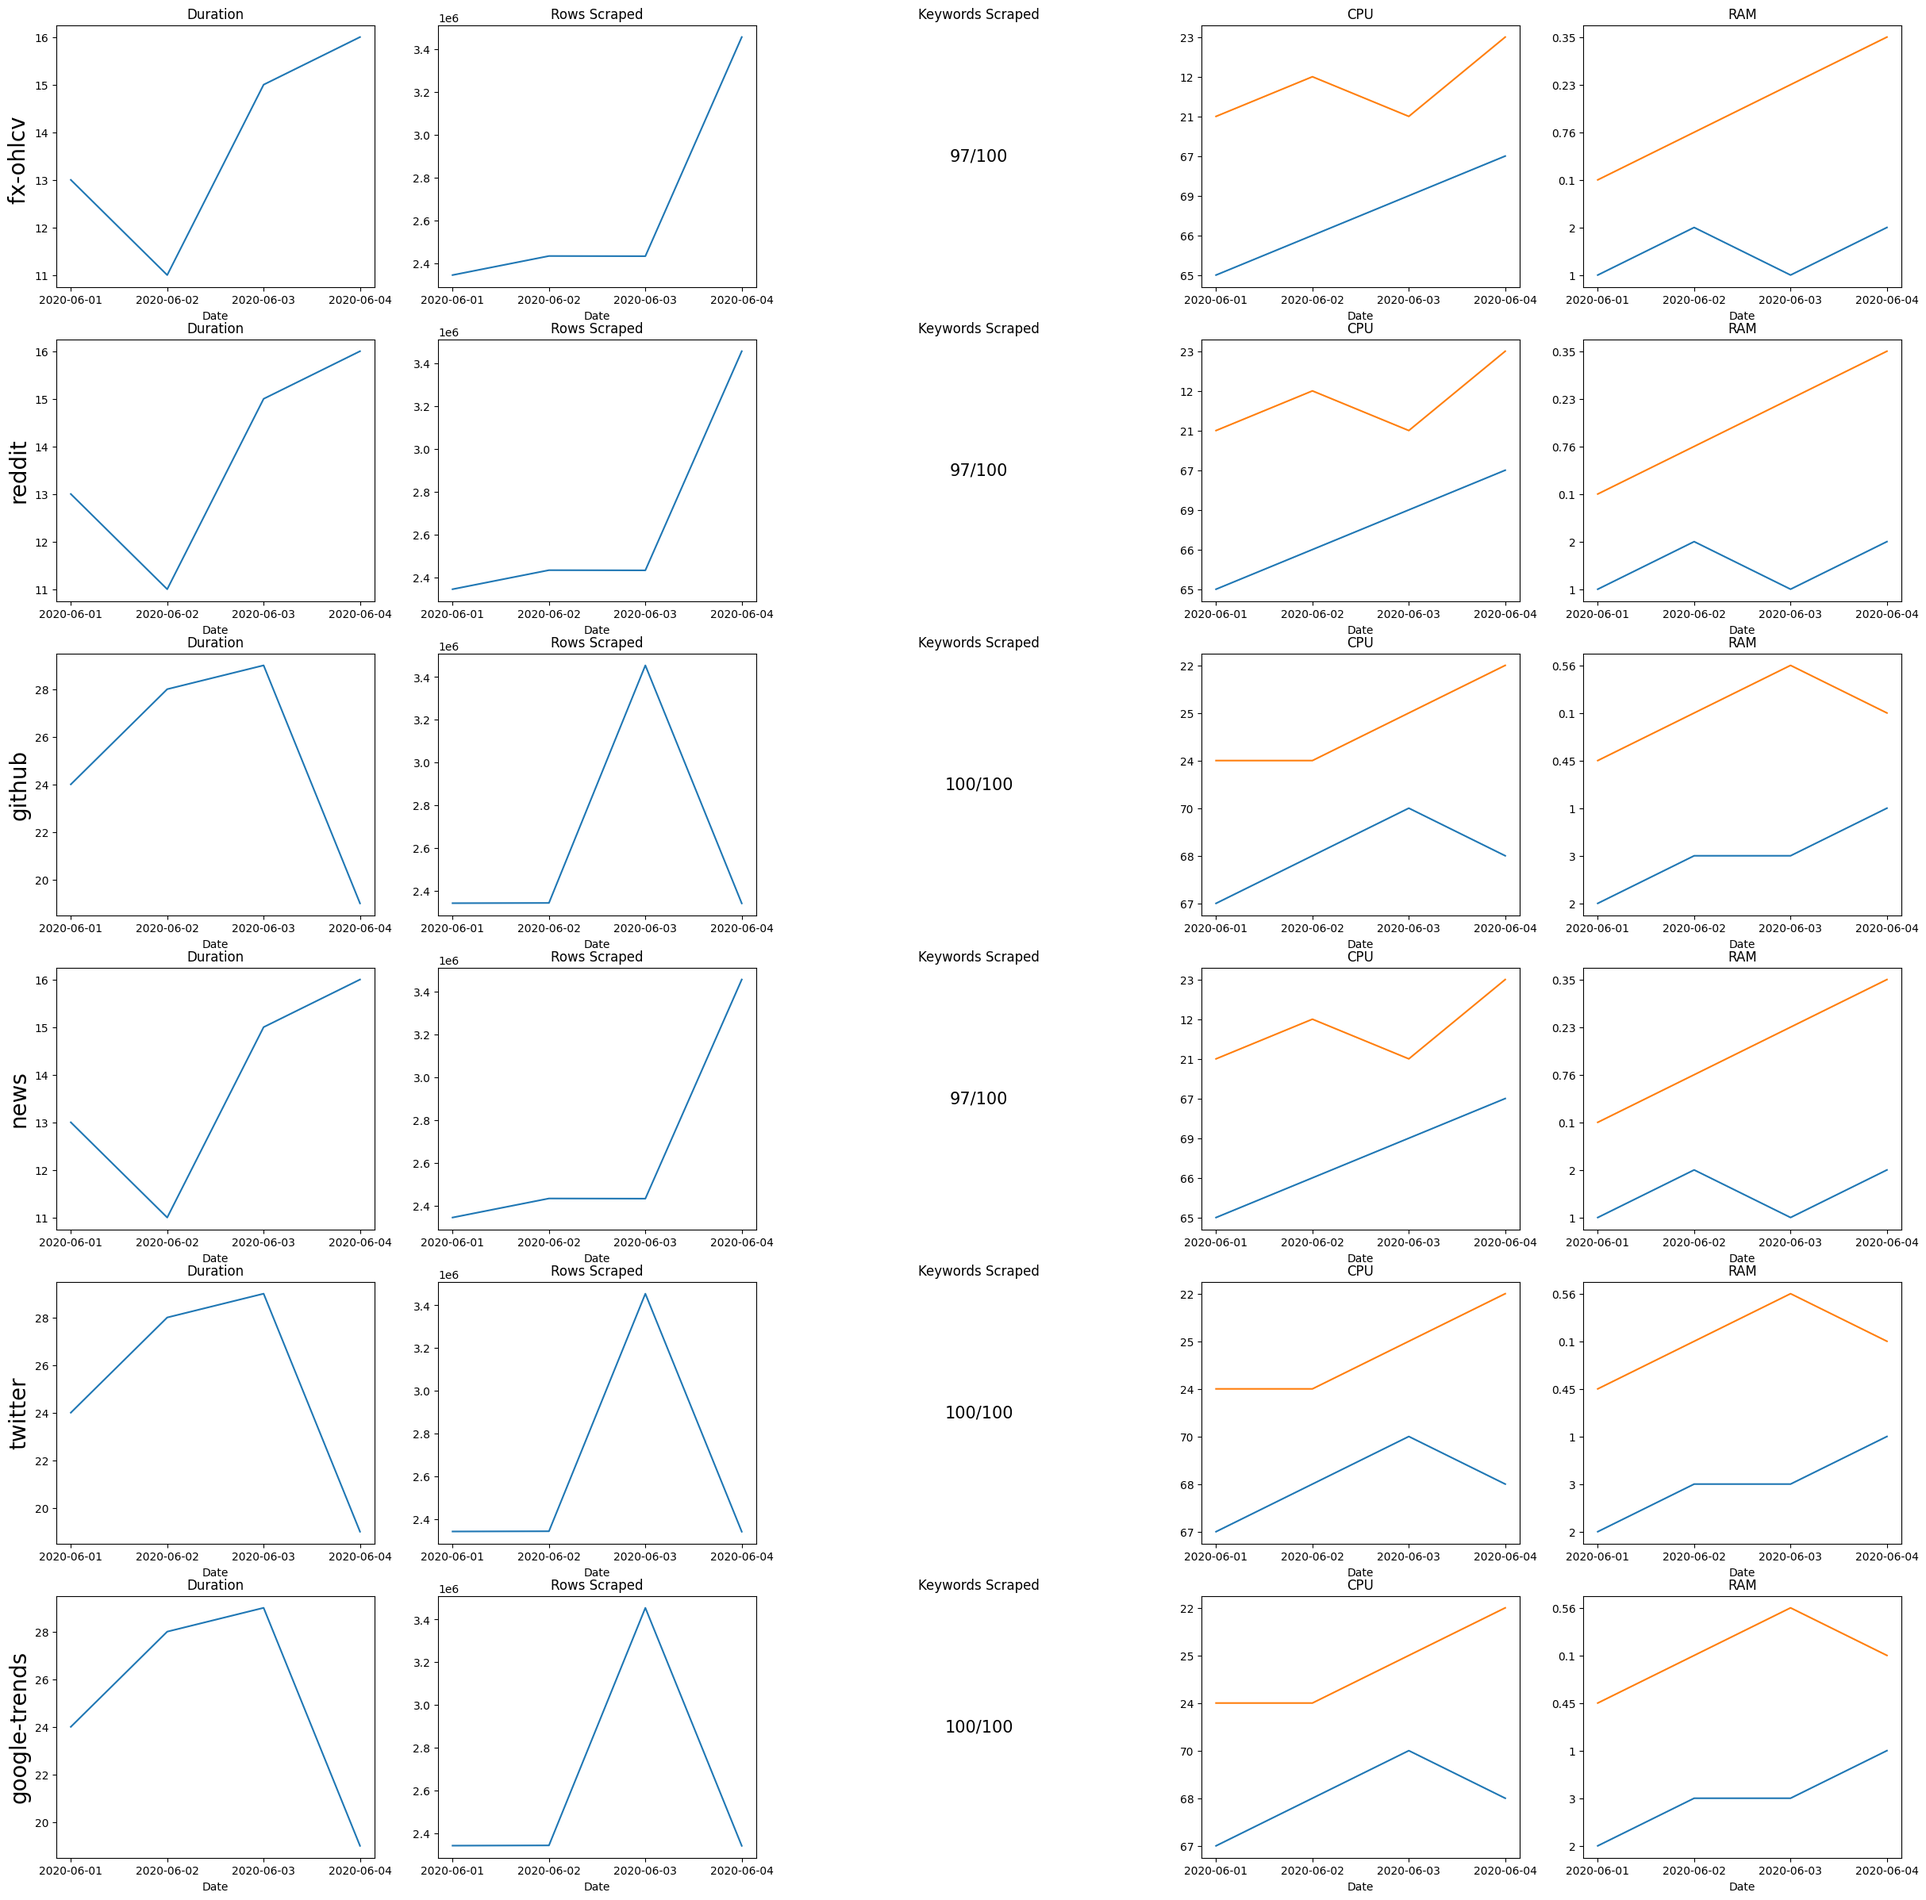
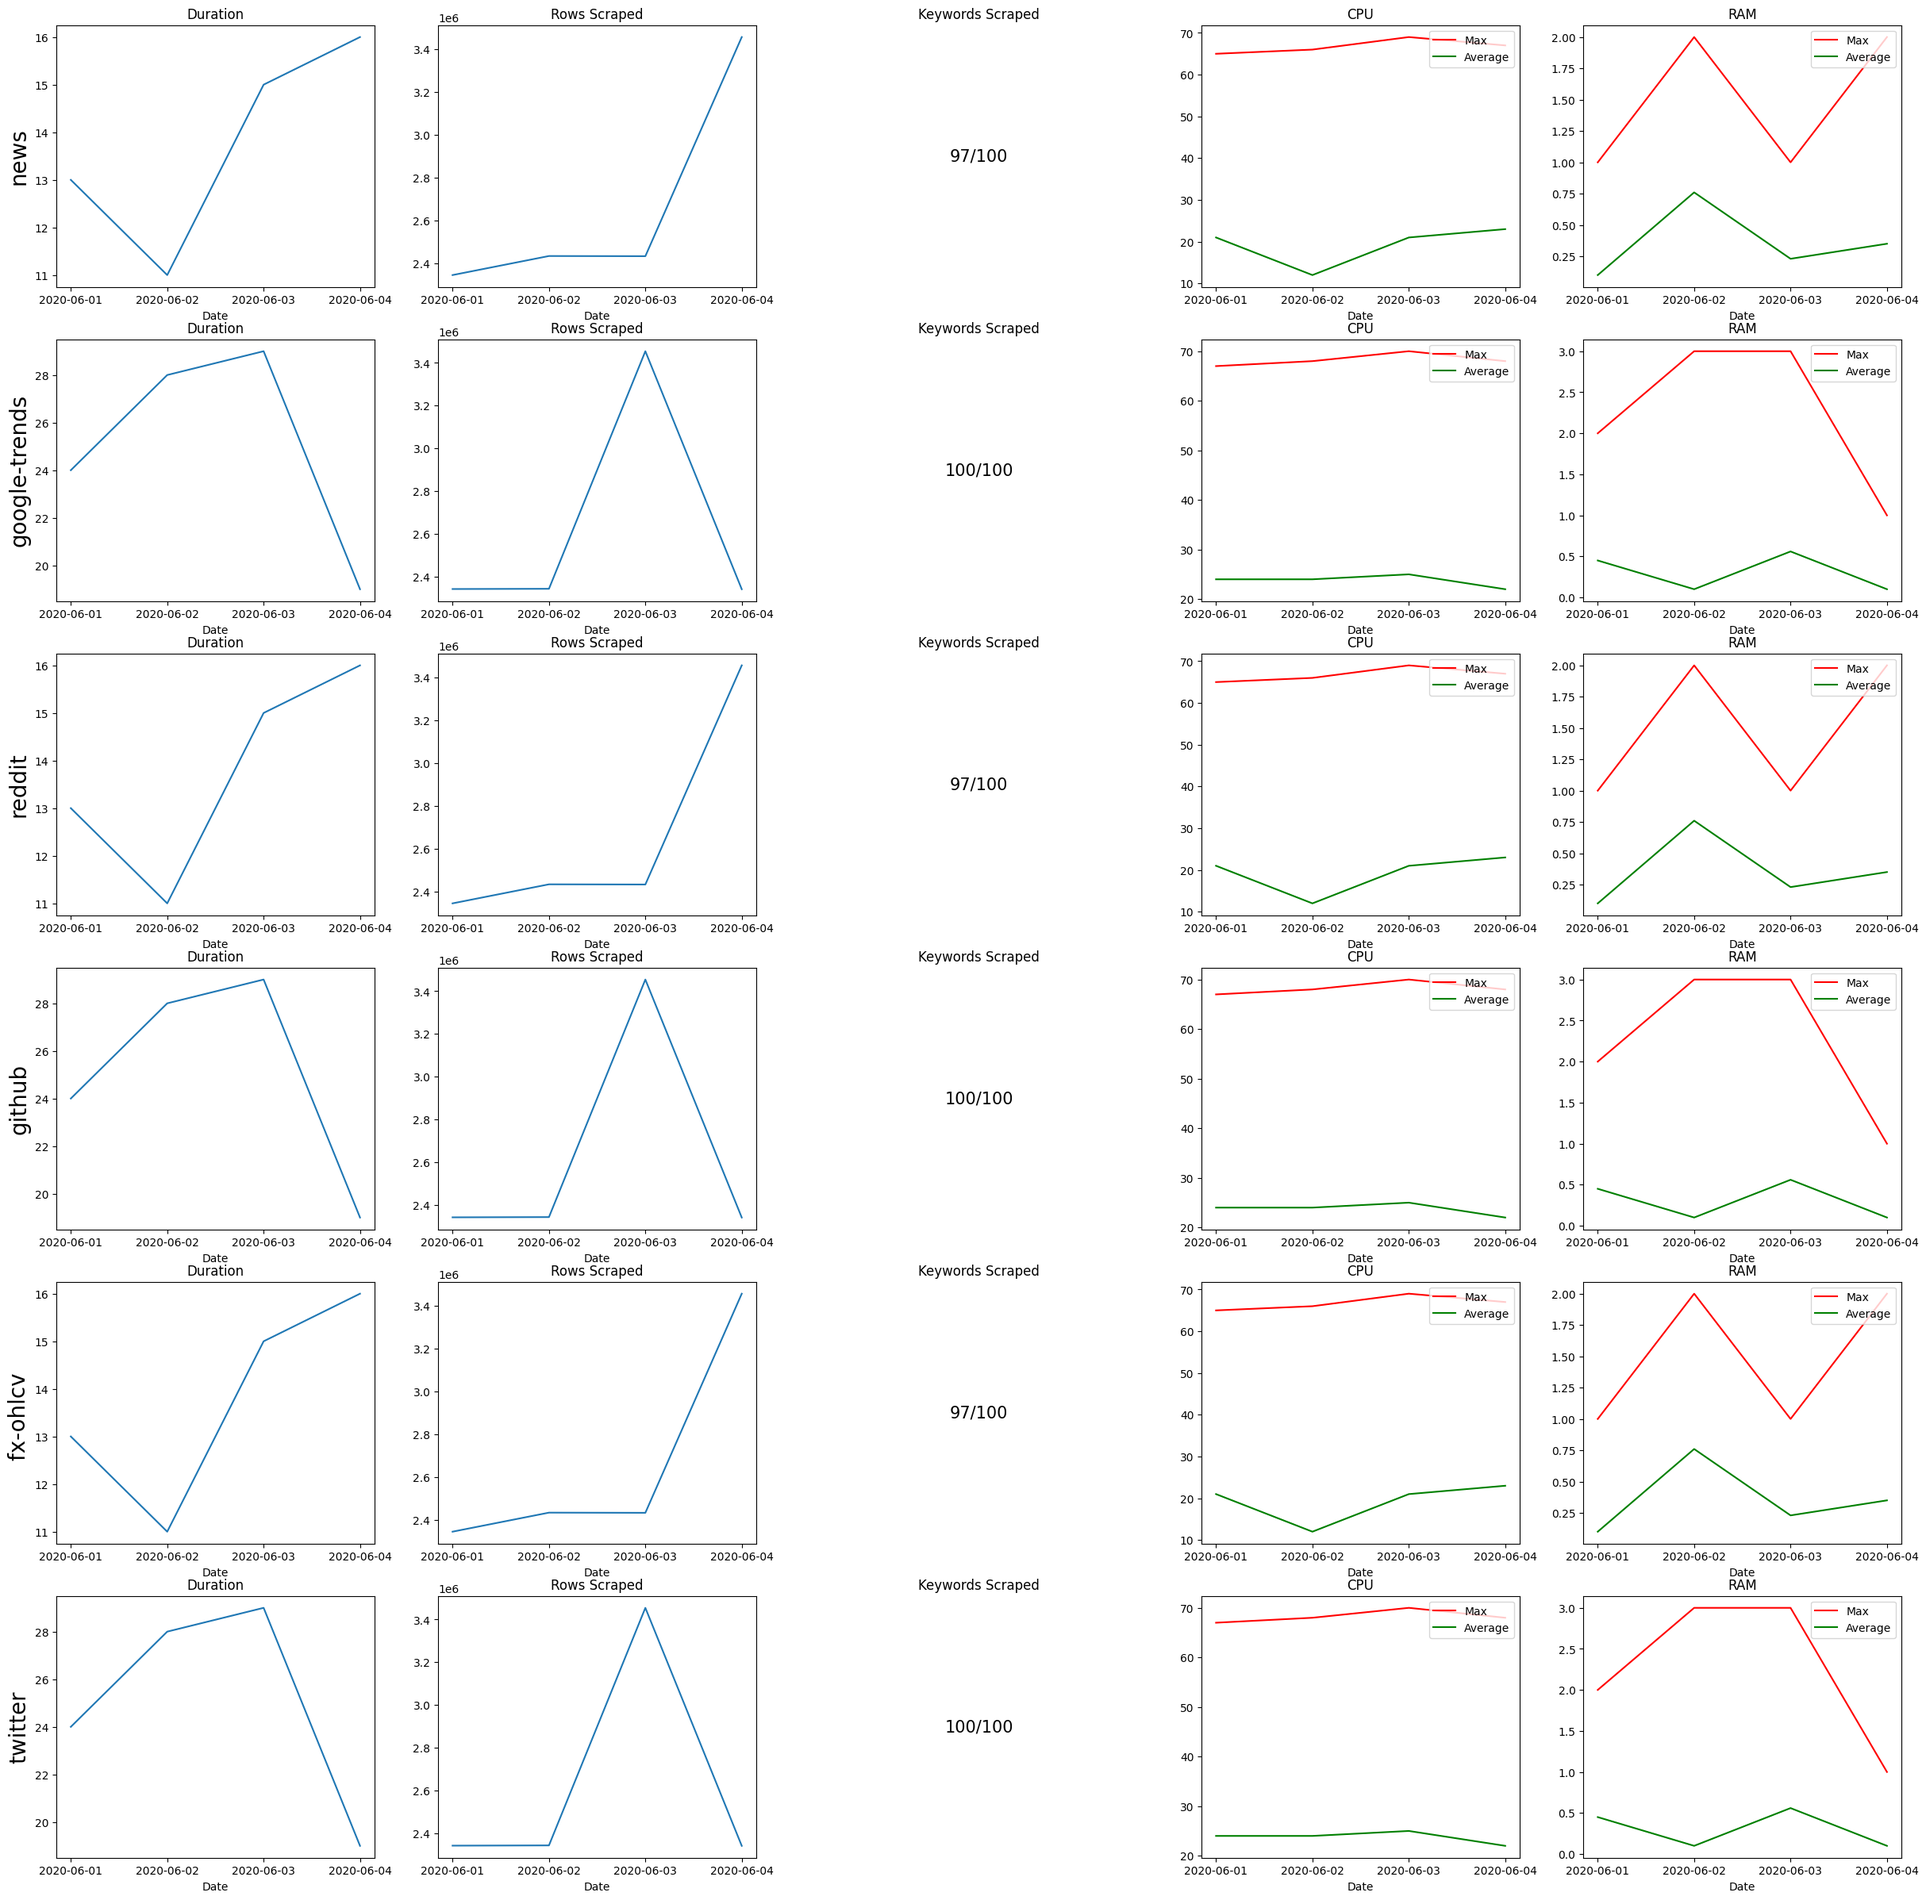
Row 4, 5 bug fixed

diff --git a/Chart/main.py b/Chart/main.py
@@ -25,52 +25,52 @@ report_file_name = "report.png" # supported formats: eps, pdf, pgf, png, ps, raw
 
 # methods
 def get_scraper_names(csv_file_name):
-	scraper = set()
-	with open(csv_file_name) as csv_file:
-		csv_reader = csv.reader(csv_file, delimiter=',')
-		line_count = 0
-		for row in csv_reader:
-			if line_count == 0:
-				line_count += 1
-			elif line_count == 1:
-				line_count += 1
-			else:
-				scraper.add(row[0])
-				line_count += 1
-	return list(scraper)
+    scraper = set()
+    with open(csv_file_name) as csv_file:
+        csv_reader = csv.reader(csv_file, delimiter=',')
+        line_count = 0
+        for row in csv_reader:
+            if line_count == 0:
+                line_count += 1
+            elif line_count == 1:
+                line_count += 1
+            else:
+                scraper.add(row[0])
+                line_count += 1
+    return list(scraper)
 
 def get_headers(csv_file_name):
-	scraper = list()
-	with open(csv_file_name) as csv_file:
-		csv_reader = csv.reader(csv_file, delimiter=',')
-		line_count = 0
-		for row in csv_reader:
-			if line_count == 0:
-				scraper = row
-				line_count += 1
-			elif line_count == 1:
-				line_count += 1
-			else:
-				line_count += 1
-	return scraper
+    scraper = list()
+    with open(csv_file_name) as csv_file:
+        csv_reader = csv.reader(csv_file, delimiter=',')
+        line_count = 0
+        for row in csv_reader:
+            if line_count == 0:
+                scraper = row
+                line_count += 1
+            elif line_count == 1:
+                line_count += 1
+            else:
+                line_count += 1
+    return scraper
 
 
 def get_rows(csv_file_name):
-	rows = []
-	with open(csv_file_name) as csv_file:
-		csv_reader = csv.reader(csv_file, delimiter=',')
-		line_count = 0
-		for row in csv_reader:
+    rows = []
+    with open(csv_file_name) as csv_file:
+        csv_reader = csv.reader(csv_file, delimiter=',')
+        line_count = 0
+        for row in csv_reader:
 
-			if line_count == 0:
-				line_count += 1
-			elif line_count == 1:
-				line_count += 1
-			else:
-				rows.append(row)
-				line_count += 1
+            if line_count == 0:
+                line_count += 1
+            elif line_count == 1:
+                line_count += 1
+            else:
+                rows.append(row)
+                line_count += 1
 
-	return rows
+    return rows
 
 
 def send_mail(email, report_file, server=SERVER, port=PORT):
@@ -141,15 +141,15 @@ for scraper in scraper_names:
             # x axis values 
             date = row[2]
             # corresponding y axis values 
-            duration = row[1]
+            duration = int(row[1])
             rowScrape = int(row[4])
             dates.append(date)
             rowsScraped.append(rowScrape)
-            durations.append(int(duration))
-            cpu_avg.append(row[5])
-            cpu_max.append(row[6])
-            ram_avg.append(row[7])
-            ram_max.append(row[8])
+            durations.append(duration)
+            cpu_avg.append(int(row[5]))
+            cpu_max.append(int(row[6]))
+            ram_avg.append(float(row[7]))
+            ram_max.append(int(row[8]))
 
     # get larger date
     dt = parse(dates[0])
@@ -219,8 +219,10 @@ for scraper in scraper_names:
     # row 4
     ax[i] = fig.add_subplot(scraper_number, 5, i)
     #plotting the points  
-    ax[i].plot(dates, cpu_max)
-    ax[i].plot(dates, cpu_avg)
+    ax[i].plot(dates, cpu_max, color='r', label="Max")
+    ax[i].plot(dates, cpu_avg, color='g', label="Average")
+
+    ax[i].legend(loc="upper right")
       
     # naming the x axis 
     ax[i].set_xlabel('Date') 
@@ -230,15 +232,19 @@ for scraper in scraper_names:
     
     i += 1
     
-    
+    print(dates)
+    print(cpu_max)
+    print(cpu_avg)
     
     
     # row 5
     ax[i] = fig.add_subplot(scraper_number, 5, i)
     #plotting the points  
-    ax[i].plot(dates, ram_max)
-    ax[i].plot(dates, ram_avg)
-      
+    ax[i].plot(dates, ram_max, color='r', label="Max")
+    ax[i].plot(dates, ram_avg, color='g', label="Average")
+    
+    ax[i].legend(loc="upper right")
+
     # naming the x axis 
     ax[i].set_xlabel('Date') 
       
@@ -246,6 +252,10 @@ for scraper in scraper_names:
     ax[i].title.set_text('RAM')
     
     i += 1
+
+    # print(dates)
+    # print(ram_max)
+    # print(ram_avg)
     
     
     # function to show the plot 
@@ -259,7 +269,12 @@ fig.savefig(report_file_name, bbox_inches='tight')
 print("Report saved!")
 #fig.show()
 
+
+# show max and average CPU and RAM
+# This will be created after discuss with him
+
+
 report_file = open(report_file_name)
 
 # now send email
-send_mail(email_recipient, report_file)
+# send_mail(email_recipient, report_file)
